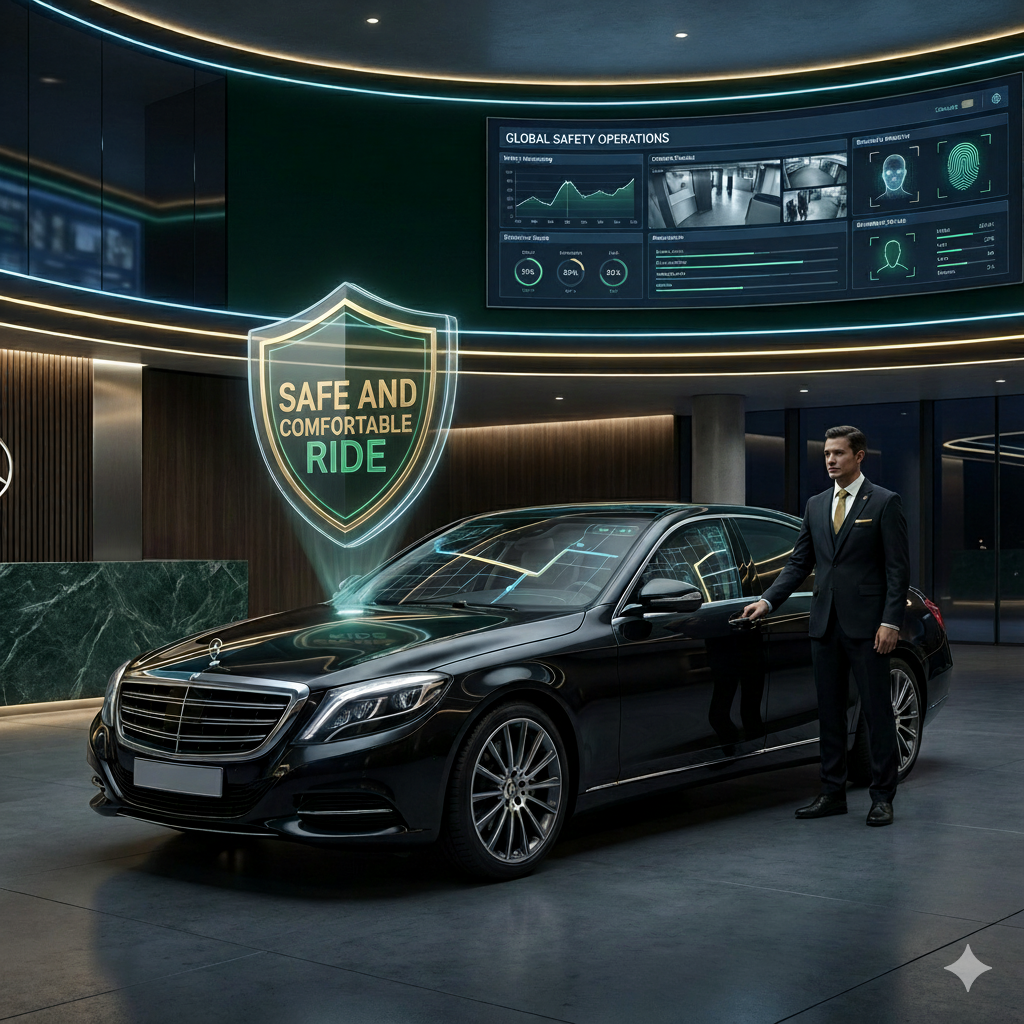
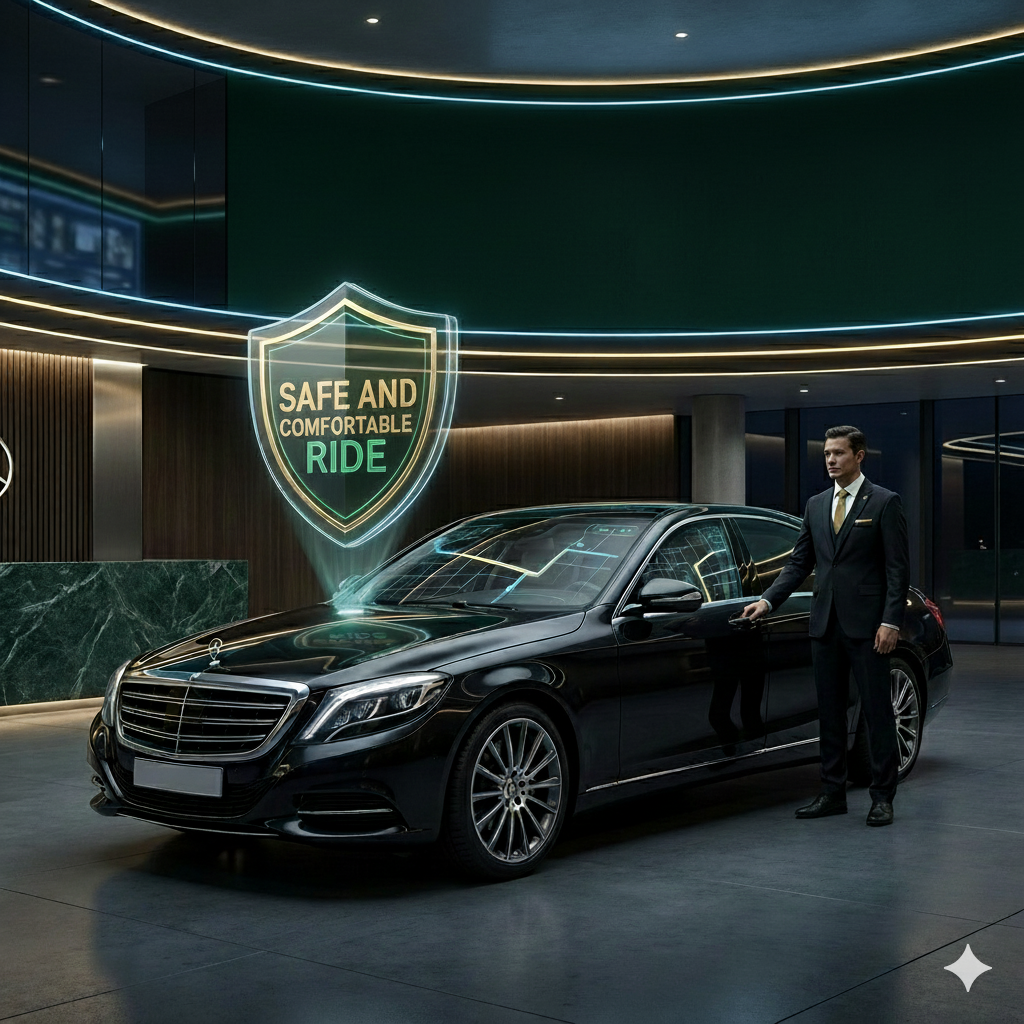
image , update and text change

Changed region(s): [[0.4688, 0.0625, 1.0, 0.3125], [0.9062, 0.9062, 0.9688, 0.9688], [0.1562, 0.625, 0.2188, 0.6562]]

diff --git a/client/pages/SafetyFirst.tsx b/client/pages/SafetyFirst.tsx
@@ -60,7 +60,7 @@ const ukCompliance = [
     },
     {
         title: "DVSA & MOT Certified",
-        description: "Regular vehicle inspections by Driver and Vehicle Standards Agency with valid MOT certificates.",
+        description: "Regular vehicle inspections by Chauffeurs and Vehicle Standards Agency with valid MOT certificates.",
         standard: "DVSA Approved",
     },
 ];

diff --git a/client/pages/LuxuryFleet.tsx b/client/pages/LuxuryFleet.tsx
@@ -93,7 +93,7 @@ const vehicleStandards = [
 const ukCompliance = [
     {
         title: "DVSA Approved",
-        description: "All vehicles meet strict Driver and Vehicle Standards Agency safety requirements.",
+        description: "All vehicles meet strict Chauffeur and Vehicle Standards Agency safety requirements.",
         standard: "DVSA Certified",
     },
     {
